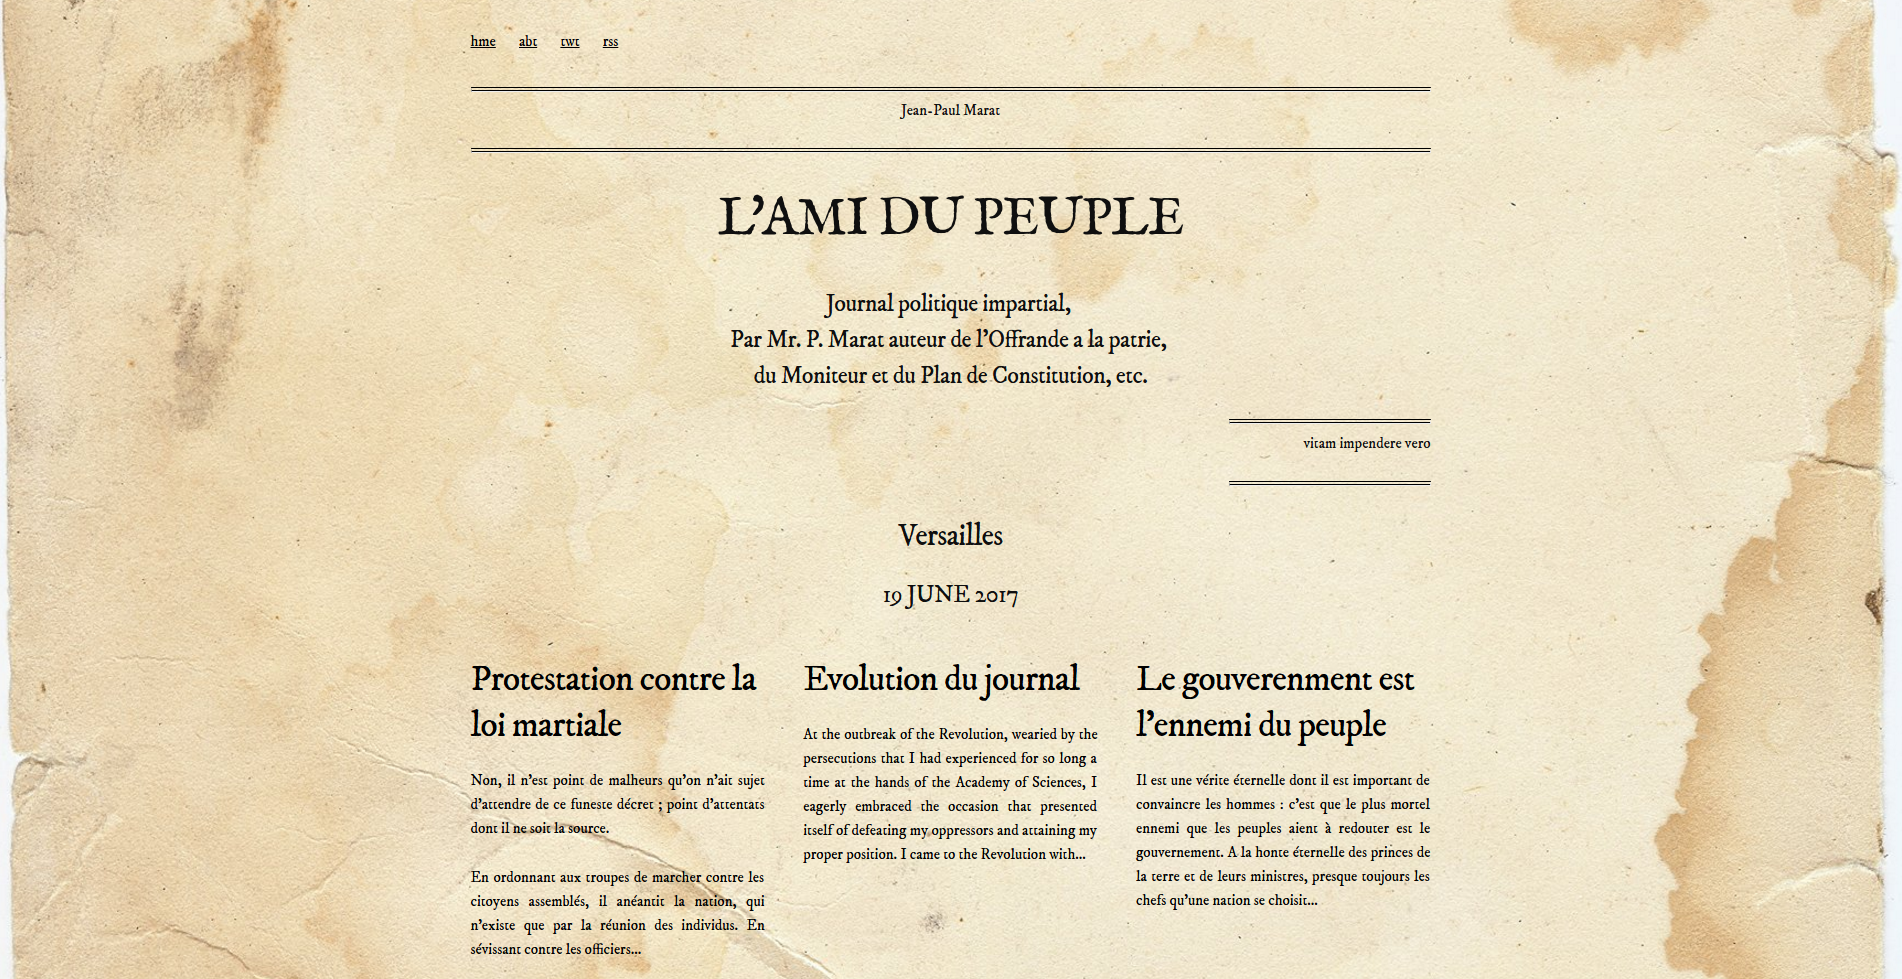
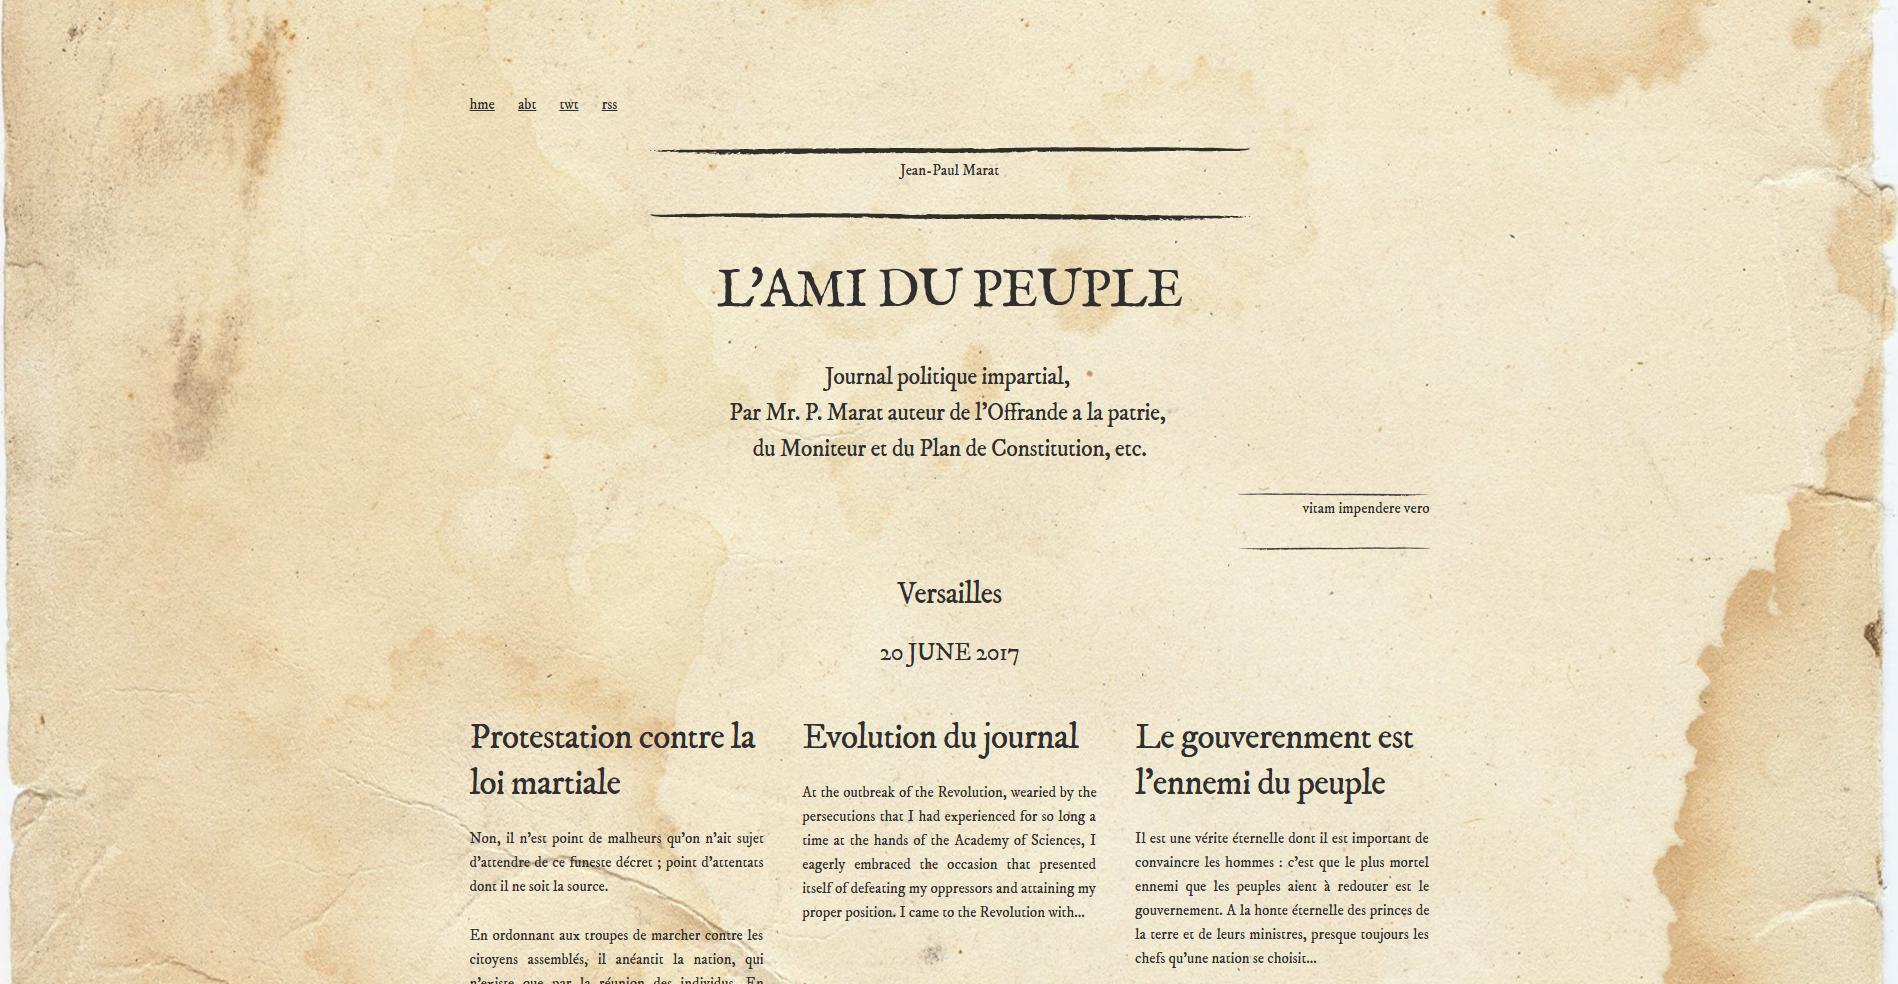
ink lines

diff --git a/_layouts/post.html b/_layouts/post.html
@@ -11,19 +11,17 @@
 
     <main>
       <div class="container">
-        <hr class="double">
+        <img src="{{ site.baseurl }}/assets/img/grunge.png" alt="" class="line">
         <p class="center">[&nbsp;N<sup>o</sup> {{ page.index | roman }}&nbsp;]
         <span style="float:right;">&nbsp;{{ page.keywords }}</span></p>
-        <hr class="simple">
+        <img src="{{ site.baseurl }}/assets/img/grunge.png" alt="" class="line flip">
 
         <h2 class="brand center" id="title">{{ page.title | upcase }}</h2>
+        {% if page.abstract %}<h5 class="center">{{ page.abstract }}</h5>{% endif %}
         {% if page.category %}
-        <hr class="tag-hr simple">
+        <img src="{{ site.baseurl }}/assets/img/grunge.png" alt="" class="line tag flip">
         <p class="right">{{ page.category }}</p>
-        <hr class="tag-hr simple">
-        {% else %}
-        <hr class="simple">
-        <br class="simple">
+        <img src="{{ site.baseurl }}/assets/img/grunge.png" alt="" class="line tag">
         {% endif %}
         <h5 class="center">{{ page.date | date_to_long_string | upcase }}</h5>
 

diff --git a/_layouts/default.html b/_layouts/default.html
@@ -7,23 +7,21 @@
   <body>
 
     {% include nav.html %}
-
     <div class="container">
-      <hr class="double">
-      <p class="center">{{ site.author }}</p>
-      <hr class="simple">
+      <img src="{{ site.baseurl }}/assets/img/grunge.png" alt="" class="line">
+      <p class="center author">{{ site.author }}</p>
+      <img src="{{ site.baseurl }}/assets/img/grunge.png" alt="" class="line flip">
       <h1 class="brand title center">{{ site.title | upcase }}</h1>
       <h5 class="center">{{ site.description | markdownify }}</h5>
-      <hr class="tag-hr simple">
+      <img src="{{ site.baseurl }}/assets/img/grunge.png" alt="" class="line tag flip">
       <p class="right">{{ site.tagline }}</p>
-      <hr class="tag-hr simple">
+      <img src="{{ site.baseurl }}/assets/img/grunge.png" alt="" class="line tag">
       <div class="center">
         <br>
         <h4>{{ site.location }}</h4>
         {% if site.date == true %}<h5>{{ site.time | date_to_long_string | upcase }}</h5>{% endif %}
         <br>
       </div>
-
       {% include articles.html %}
     </div>
 

diff --git a/_layouts/about.html b/_layouts/about.html
@@ -9,14 +9,14 @@
     {% include nav.html %}
 
     <div class="container">
-      <hr class="double">
-      <p class="center">{{ site.author }}</p>
-      <hr class="simple">
+      <img src="{{ site.baseurl }}/assets/img/grunge.png" alt="" class="line">
+      <p class="center author">{{ site.author }}</p>
+      <img src="{{ site.baseurl }}/assets/img/grunge.png" alt="" class="line flip">
       <h1 class="brand title center">{{ site.title | upcase }}</h1>
       <h5 class="center">{{ site.description | markdownify }}</h5>
-      <hr class="tag-hr simple">
+      <img src="{{ site.baseurl }}/assets/img/grunge.png" alt="" class="line tag flip">
       <p class="right">{{ site.tagline }}</p>
-      <hr class="tag-hr simple">
+      <img src="{{ site.baseurl }}/assets/img/grunge.png" alt="" class="line tag">
       <div class="center">
         <h5>{{ page.description }}</h5>
         {% if site.date == true %}<h5>{{ site.time | date_to_long_string | upcase }}</h5>{% endif %}

diff --git a/assets/css/style.css b/assets/css/style.css
@@ -13,12 +13,38 @@ body{
   /* This is mostly intended for prototyping; please download the pattern and re-host for production environments. Thank you! */
 }
 
+.author{
+  font-size: 1.3em;
+}
+
 .brand{
   font-family: 'IM Fell English SC', serif;
 }
 
 .title{
   font-size: 3.5em;
+}
+
+.line{
+  max-width: 100%;
+  display: block;
+  margin: 0 auto;
+  -webkit-filter: opacity(.8);
+  filter: opacity(.8);
+}
+
+.flip{
+  -moz-transform: scaleX(-1);
+  -o-transform: scaleX(-1);
+  -webkit-transform: scaleX(-1);
+  transform: scaleX(-1);
+  filter: FlipH;
+  -ms-filter: "FlipH";
+}
+
+.tag{
+  width: 50%;
+  margin-right:0;
 }
 
 #title{
@@ -47,7 +73,7 @@ hr.simple {
 }
 
 .tag-hr{
-  width: 50%;
+  width: 45%;
   margin-right:0;
 }
 
@@ -103,8 +129,8 @@ and (min-device-width : 768px)  {
     column-gap: 20px;
     width: 100%;
   }
-  .tag-hr{
-    width: 200px;
+  .tag{
+    width: 23%;
     margin-right:0;
   }
 }
